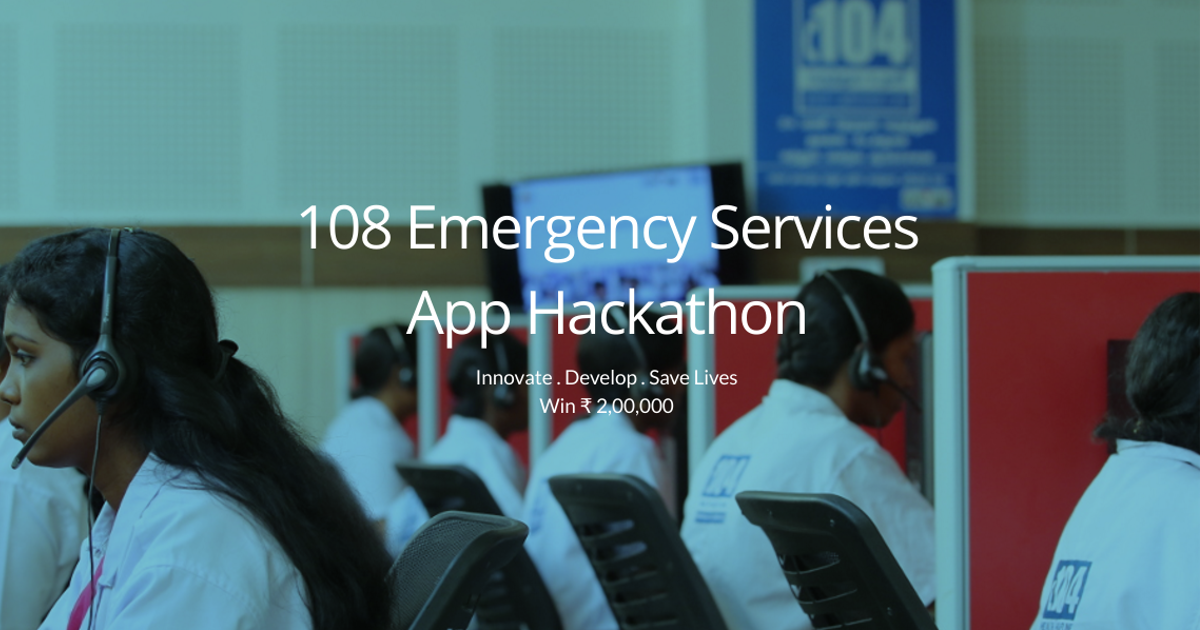
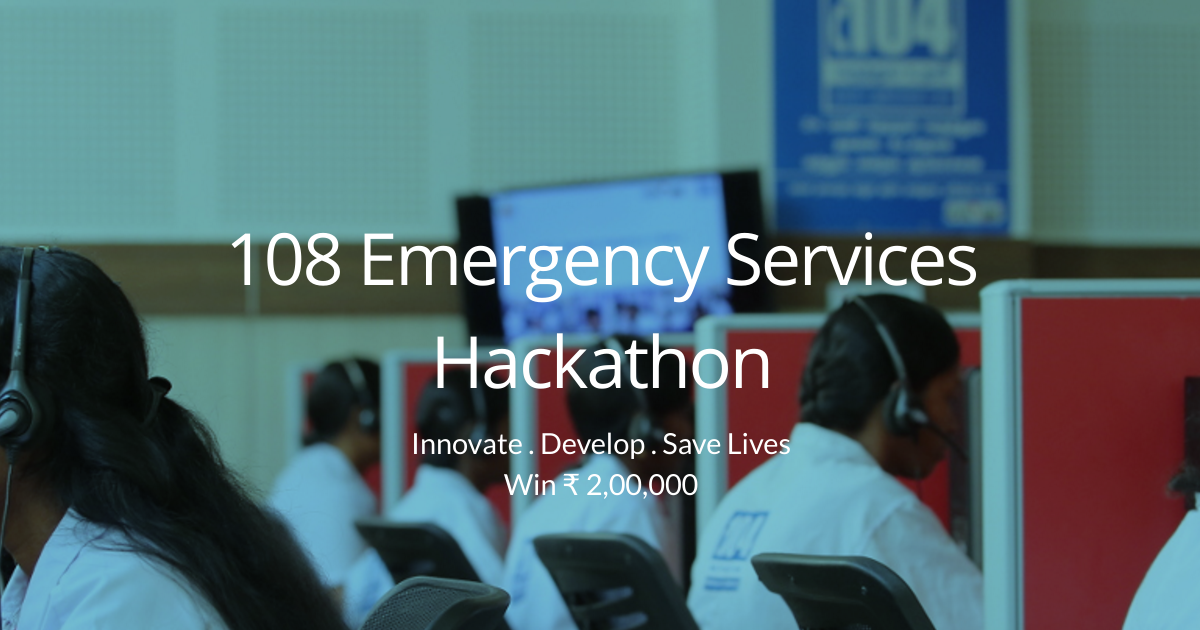
Remove reference to app

diff --git a/src/index.html b/src/index.html
@@ -3,25 +3,25 @@
 <head>
 <meta charset="utf-8">
 <meta name="viewport" content="width=device-width, initial-scale=1">
-<title>108 Emergency App Hackathon | IIT Madras and TNHSP</title>
-<meta name="description" content="Win ₹2,00,000. Organised by IIT Madras and TNHSP, hackathon brings you the opportunity to innovate and have a positive impact on the current structure of the 108 Emergency Services">
+<title>108 Emergency Services Hackathon | IIT Madras and TNHSP</title>
+<meta name="description" content="Win ₹2,00,000. Organised by IIT Madras and TNHSP, 108 hackathon brings you the opportunity to innovate and have a positive impact on the current structure of the 108 Emergency Services">
 <meta name="keywords" content="hackathon, 108, emergency, iit madras, tamil nadu, ambulance, tnhsp">
 <meta name="author" content="The WebOps Club, IIT Madras">
 
 <!-- Open Graph data -->
-<meta property="og:title" content="108 Emergency App Hackathon | IIT Madras and TNHSP" />
+<meta property="og:title" content="108 Emergency Services Hackathon | IIT Madras and TNHSP" />
 <meta property="og:type" content="website" />
 <meta property="og:url" content="https://www.108hackathon.in/" />
 <meta property="og:image" content="https://www.108hackathon.in/img/thumbnail.png" />
-<meta property="og:description" content="Win ₹2,00,000. Organised by IIT Madras and TNHSP, hackathon brings you the opportunity to innovate and have a positive impact on the current structure of the 108 Emergency Services" />
+<meta property="og:description" content="Win ₹2,00,000. Organised by IIT Madras and TNHSP, 108 hackathon brings you the opportunity to innovate and have a positive impact on the current structure of the 108 Emergency Services" />
 <meta property="og:site_name" content="108 Hackathon" />
 <meta property="fb:admins" content="100000978345522" />
 
 <!-- Twitter Card data -->
 <meta name="twitter:card" content="summary">
 <!-- <meta name="twitter:site" content="@shahidhk"> -->
-<meta name="twitter:title" content="108 Emergency App Hackathon | IIT Madras and TNHSP">
-<meta name="twitter:description" content="Win ₹2,00,000. Organised by IIT Madras and TNHSP, hackathon brings you the opportunity to innovate and have a positive impact on the current structure of the 108 Emergency Services">
+<meta name="twitter:title" content="108 Emergency Services Hackathon | IIT Madras and TNHSP">
+<meta name="twitter:description" content="Win ₹2,00,000. Organised by IIT Madras and TNHSP, 108 hackathon brings you the opportunity to innovate and have a positive impact on the current structure of the 108 Emergency Services">
 <meta name="twitter:creator" content="@shahidh_k">
 <meta name="twitter:image" content="https://www.108hackathon.in/img/thumbnail.png">
 
@@ -59,7 +59,7 @@
     <div class="container">
       <div class="row">
         <div class="intro-text">
-          <h1>108 Emergency Services App Hackathon</h1>
+          <h1>108 Emergency Services Hackathon</h1>
           <p>
             Innovate . Develop . Save Lives<br/>
             Win ₹ 2,00,000
@@ -122,7 +122,7 @@
       <div class="col-md-8 col-md-offset-2">
         <div class="about-text text-center">
           <p>
-            Organised by TNHSP and IIT Madras, The Emergency Services Application Hackathon
+            Organised by TNHSP and IIT Madras, The Emergency Services Hackathon
             brings you the opportunity to innovate and have a positive impact on the current
              structure of the 108 Emergency Services in Tamil Nadu .</p>
           <p>
